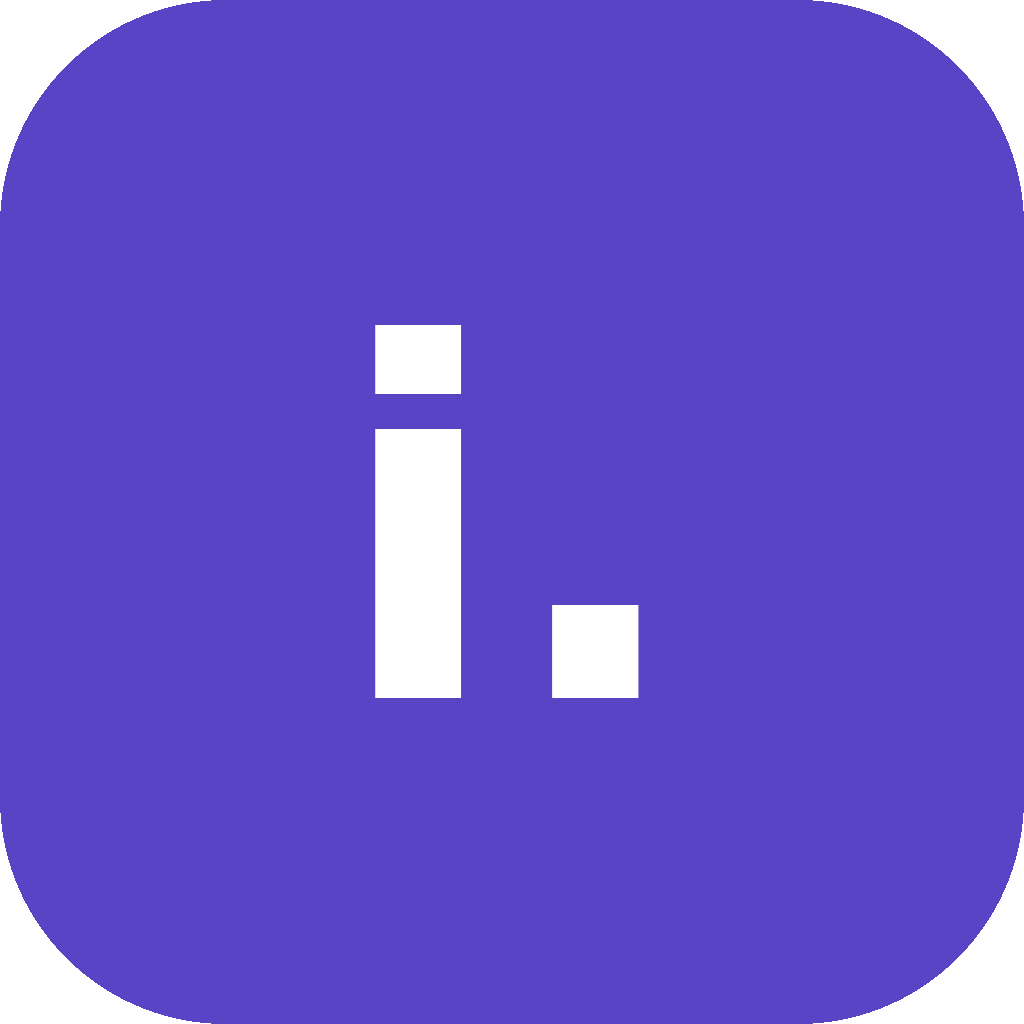
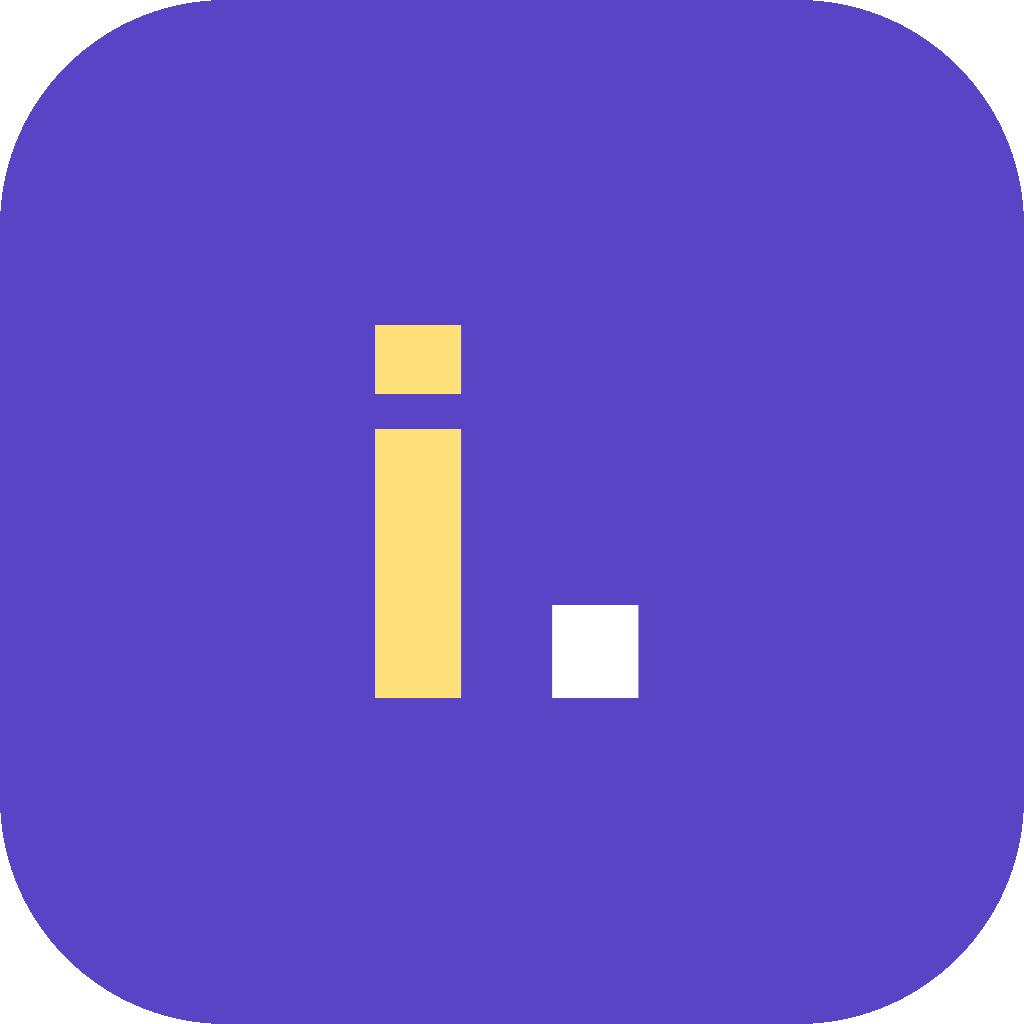
Update InGliSc app branding

Changed region(s): [[0.3438, 0.3125, 0.4688, 0.6875]]

diff --git a/App.js b/App.js
@@ -329,7 +329,19 @@ function AppContent({ onCoffeeThanks }) {
   const back = () => { if (exit) setExit(false); else if (activePage === 'game') setExit(true); else if (page !== 'home') setPage('home'); else return false; return true; };
   useEffect(() => { const sub = BackHandler.addEventListener('hardwareBackPress', back); return () => sub.remove(); });
   return <SafeAreaView style={s.safe}><StatusBar style={darkMode ? 'light' : 'dark'} /><Modal transparent visible={game.serverWaking} animationType="fade" statusBarTranslucent onRequestClose={() => {}}><View style={s.wakeBackdrop}><View accessibilityRole="progressbar" accessibilityLabel="Attendo la connessione al server" style={s.wakeSpinner}><ActivityIndicator size="large" color={C.purple} /></View></View></Modal><KeyboardAvoidingView style={{ flex: 1 }} behavior={Platform.OS === 'ios' ? 'padding' : undefined}><ScrollView keyboardShouldPersistTaps="handled" contentContainerStyle={s.container}>
-    <View style={s.nav}><Pressable accessibilityRole="button" accessibilityLabel={activePage === 'home' ? 'InGliSc home' : 'Indietro'} onPress={back} style={s.brand}><View style={s.brandMark}><Text style={s.brandMarkText}>i.</Text></View>{!compactHeader && <Text style={s.brandText}>InGliSc<Text style={{ color: C.purple }}>!</Text></Text>}</Pressable><View style={[s.navRight, compactHeader && s.navRightCompact]}><View accessibilityLabel={`${game.activeUsers} utenti attivi`} style={[s.activeBadge, compactHeader && s.activeBadgeCompact]}><View style={s.onlineDot} /><Text style={s.activeText}>{game.activeUsers}</Text></View><Pressable accessibilityRole="switch" accessibilityLabel={soundEnabled ? 'Disattiva suoni' : 'Attiva suoni'} accessibilityState={{ checked: soundEnabled }} onPress={() => { const next = !soundEnabled; setSoundEnabled(next); setSoundEffectsEnabled(next); if (next) void playUiSound('tap'); }} style={[s.navButton, compactHeader && s.navButtonCompact]}><MaterialCommunityIcons name={soundEnabled ? 'volume-high' : 'volume-off'} size={21} color={C.purple} /></Pressable><Pressable accessibilityRole="switch" accessibilityLabel={darkMode ? 'Attiva modalità chiara' : 'Attiva modalità scura'} accessibilityState={{ checked: darkMode }} disabled={!themeReady} onPress={() => { const next = !darkMode; C = next ? DARK : LIGHT; s = buildStyles(); setDarkMode(next); AsyncStorage.setItem('inglisc:dark-mode', String(next)).catch(() => {}); void playUiSound('tap'); }} style={[s.navButton, compactHeader && s.navButtonCompact, !themeReady && s.disabled]}><MaterialCommunityIcons name={darkMode ? 'white-balance-sunny' : 'weather-night'} size={21} color={C.purple} /></Pressable>{activePage === 'game' && <Pressable accessibilityRole="button" accessibilityLabel="Memo parole" onPress={() => { void playUiSound('tap'); setPage('memo'); }} style={[s.navButton, compactHeader && s.navButtonCompact]}><MaterialCommunityIcons name="bookmark-outline" size={20} color={C.purple} />{!compactHeader && <Text style={s.navText}>Memo</Text>}</Pressable>}{activePage !== 'home' && <Pressable accessibilityRole="button" accessibilityLabel={activePage === 'game' ? 'Esci dalla lobby' : 'Indietro'} onPress={back} style={[s.navButton, compactHeader && s.navButtonCompact]}><MaterialCommunityIcons name={activePage === 'game' ? 'exit-to-app' : 'arrow-left'} size={20} color={C.purple} />{!compactHeader && <Text style={s.navText}>{activePage === 'game' ? 'Esci' : 'Indietro'}</Text>}</Pressable>}</View></View>
+    <View style={s.nav}>
+      <Pressable accessibilityRole="button" accessibilityLabel={activePage === 'home' ? 'InGliSc home' : 'Indietro'} onPress={back} style={s.brand}>
+        <View style={s.brandMark}><Text style={s.brandMarkText}><Text style={{ color: C.heroAccent }}>i</Text><Text style={{ color: C.white }}>.</Text></Text></View>
+        {!compactHeader && <Text style={s.brandText}>InGliSc<Text style={{ color: C.purple }}>!</Text></Text>}
+      </Pressable>
+      <View style={[s.navRight, compactHeader && s.navRightCompact]}>
+        <View accessibilityLabel={`${game.activeUsers} utenti attivi`} style={[s.activeBadge, compactHeader && s.activeBadgeCompact]}><View style={s.onlineDot} /><Text style={s.activeText}>{game.activeUsers}</Text></View>
+        <Pressable accessibilityRole="switch" accessibilityLabel={soundEnabled ? 'Disattiva suoni' : 'Attiva suoni'} accessibilityState={{ checked: soundEnabled }} onPress={() => { const next = !soundEnabled; setSoundEnabled(next); setSoundEffectsEnabled(next); if (next) void playUiSound('tap'); }} style={[s.navButton, compactHeader && s.navButtonCompact]}><MaterialCommunityIcons name={soundEnabled ? 'volume-high' : 'volume-off'} size={21} color={C.purple} /></Pressable>
+        <Pressable accessibilityRole="switch" accessibilityLabel={darkMode ? 'Attiva modalità chiara' : 'Attiva modalità scura'} accessibilityState={{ checked: darkMode }} disabled={!themeReady} onPress={() => { const next = !darkMode; C = next ? DARK : LIGHT; s = buildStyles(); setDarkMode(next); AsyncStorage.setItem('inglisc:dark-mode', String(next)).catch(() => {}); void playUiSound('tap'); }} style={[s.navButton, compactHeader && s.navButtonCompact, !themeReady && s.disabled]}><MaterialCommunityIcons name={darkMode ? 'white-balance-sunny' : 'weather-night'} size={21} color={C.purple} /></Pressable>
+        {activePage === 'game' && <Pressable accessibilityRole="button" accessibilityLabel="Memo parole" onPress={() => { void playUiSound('tap'); setPage('memo'); }} style={[s.navButton, compactHeader && s.navButtonCompact]}><MaterialCommunityIcons name="bookmark-outline" size={20} color={C.purple} />{!compactHeader && <Text style={s.navText}>Memo</Text>}</Pressable>}
+        {activePage !== 'home' && <Pressable accessibilityRole="button" accessibilityLabel={activePage === 'game' ? 'Esci dalla lobby' : 'Indietro'} onPress={back} style={[s.navButton, compactHeader && s.navButtonCompact]}><MaterialCommunityIcons name={activePage === 'game' ? 'exit-to-app' : 'arrow-left'} size={20} color={C.purple} />{!compactHeader && <Text style={s.navText}>{activePage === 'game' ? 'Esci' : 'Indietro'}</Text>}</Pressable>}
+      </View>
+    </View>
     {!!game.error && <View style={s.error}><Text accessibilityLiveRegion="polite" style={s.errorText}>{game.error}</Text>{game.session && <Pressable accessibilityRole="button" onPress={game.refresh}><Text style={s.errorLink}>Riprova aggiornamento</Text></Pressable>}</View>}
     {exit && game.session && <Card style={{ backgroundColor: C.coral }}><Text style={s.sectionTitle}>Vuoi uscire dalla lobby?</Text><Text style={s.body}>Durante una partita l’uscita interrompe il gioco per tutti e azzera i punteggi. Se la rete non funziona, puoi rimuovere solo la sessione locale, ma il posto rimarrà occupato fino alla scadenza.</Text><Button title="Sì, esci dalla lobby" disabled={game.busy} onPress={async () => { if (await game.action('leave')) { setExit(false); setPage('home'); } }} /><Button kind="secondary" title="Resta qui" onPress={() => setExit(false)} /><Button kind="light" title="Rimuovi solo sessione locale" onPress={() => { game.forget('Sessione locale rimossa. Il posto può rimanere occupato fino alla scadenza.'); setExit(false); setPage('home'); }} /></Card>}
     {!game.ready || !themeReady ? <ActivityIndicator size="large" color={C.purple} /> : <ScreenEntrance key={screenKey}>{activePage === 'home' ? <Home game={game} open={setPage} onCoffeeThanks={onCoffeeThanks} /> : activePage === 'rules' ? <Rules /> : activePage === 'memo' ? <Memo game={game} /> : <Game game={game} />}</ScreenEntrance>}
@@ -356,7 +368,7 @@ function buildStyles() {
   return StyleSheet.create({
     coffeeToast: { position: 'absolute', bottom: 24, left: 16, right: 16, alignSelf: 'center', maxWidth: 480, minHeight: 54, borderRadius: 16, backgroundColor: C.ink, flexDirection: 'row', alignItems: 'center', justifyContent: 'center', gap: 10, paddingHorizontal: 18, paddingVertical: 12, elevation: 10, shadowColor: '#000000', shadowOpacity: .2, shadowOffset: { width: 0, height: 4 }, shadowRadius: 12, zIndex: 100 }, coffeeToastText: { color: C.white, fontSize: 15, fontWeight: '800', textAlign: 'center' },
     safe: { flex: 1, backgroundColor: C.cream }, wakeBackdrop: { flex: 1, backgroundColor: 'rgba(0,0,0,0.12)', alignItems: 'center', justifyContent: 'center' }, wakeSpinner: { width: 68, height: 68, borderRadius: 18, backgroundColor: C.white, borderWidth: 1, borderColor: C.edge, alignItems: 'center', justifyContent: 'center' }, container: { width: '100%', maxWidth: 720, alignSelf: 'center', paddingHorizontal: 20, paddingBottom: 24, gap: 16 },
-    nav: { minHeight: 72, flexDirection: 'row', alignItems: 'center', justifyContent: 'space-between', gap: 8 }, brand: { flexDirection: 'row', alignItems: 'center', gap: 9 }, brandMark: { width: 36, height: 36, borderRadius: 12, backgroundColor: C.primary, alignItems: 'center', justifyContent: 'center' }, brandMarkText: { color: 'white', fontSize: 24, fontWeight: '900' }, brandText: { fontSize: 22, fontWeight: '900', color: C.ink, letterSpacing: -1 }, navRight: { flexDirection: 'row', gap: 4, alignItems: 'center' }, navRightCompact: { gap: 0 }, navButton: { minHeight: 44, minWidth: 44, flexDirection: 'row', alignItems: 'center', justifyContent: 'center', gap: 4, paddingHorizontal: 8 }, navButtonCompact: { minWidth: 40, paddingHorizontal: 4 }, navText: { color: C.purple, fontWeight: '700' }, activeBadge: { height: 32, minWidth: 48, borderRadius: 16, backgroundColor: C.pale, flexDirection: 'row', alignItems: 'center', justifyContent: 'center', gap: 6, paddingHorizontal: 9 }, activeBadgeCompact: { height: 30, minWidth: 42, paddingHorizontal: 7 }, onlineDot: { width: 8, height: 8, borderRadius: 4, backgroundColor: C.success }, activeText: { color: C.ink, fontSize: 13, fontWeight: '900' },
+    nav: { minHeight: 72, flexDirection: 'row', alignItems: 'center', justifyContent: 'space-between', gap: 8 }, brand: { flexDirection: 'row', alignItems: 'center', gap: 9 }, brandMark: { width: 36, height: 36, borderRadius: 12, backgroundColor: C.primary, alignItems: 'center', justifyContent: 'center' }, brandMarkText: { color: C.heroAccent, fontSize: 24, fontWeight: '900' }, brandText: { fontSize: 22, fontWeight: '900', color: C.ink, letterSpacing: -1 }, navRight: { flexDirection: 'row', gap: 4, alignItems: 'center' }, navRightCompact: { gap: 0 }, navButton: { minHeight: 44, minWidth: 44, flexDirection: 'row', alignItems: 'center', justifyContent: 'center', gap: 4, paddingHorizontal: 8 }, navButtonCompact: { minWidth: 40, paddingHorizontal: 4 }, navText: { color: C.purple, fontWeight: '700' }, activeBadge: { height: 32, minWidth: 48, borderRadius: 16, backgroundColor: C.pale, flexDirection: 'row', alignItems: 'center', justifyContent: 'center', gap: 6, paddingHorizontal: 9 }, activeBadgeCompact: { height: 30, minWidth: 42, paddingHorizontal: 7 }, onlineDot: { width: 8, height: 8, borderRadius: 4, backgroundColor: C.success }, activeText: { color: C.ink, fontSize: 13, fontWeight: '900' },
     homeContent: { gap: 16 }, memoPage: { gap: 16 }, hero: { backgroundColor: C.primary, borderRadius: 28, padding: 26, gap: 14 }, heroTop: { flexDirection: 'row', justifyContent: 'space-between', alignItems: 'center' }, heroTag: { color: C.heroTag, fontSize: 11, letterSpacing: 1.8, fontWeight: '900' }, heroSpark: { color: C.heroAccent, fontSize: 30 }, heroTitle: { color: 'white', fontSize: 36, lineHeight: 41, fontWeight: '900', letterSpacing: -1.5 }, heroText: { color: C.heroText, fontSize: 16, lineHeight: 24 }, heroPill: { alignSelf: 'flex-start', backgroundColor: C.yellow, borderRadius: 30, flexDirection: 'row', gap: 7, alignItems: 'center', paddingHorizontal: 12, paddingVertical: 8 }, heroPillText: { color: C.ink, fontSize: 10, fontWeight: '900', letterSpacing: .5 },
     card: { backgroundColor: C.white, borderRadius: 24, padding: 22, gap: 14, borderWidth: 1, borderColor: C.edge }, heading: { gap: 7 }, eyebrow: { color: C.purple, fontSize: 11, fontWeight: '900', letterSpacing: 1.5 }, title: { color: C.ink, fontWeight: '900', fontSize: 27, lineHeight: 33, letterSpacing: -.7 }, subtitle: { color: C.muted, fontSize: 15, lineHeight: 22 }, body: { color: C.muted, fontSize: 15, lineHeight: 22 }, sectionTitle: { color: C.ink, fontSize: 18, fontWeight: '800' },
     button: { minHeight: 50, borderRadius: 14, backgroundColor: C.primary, flexDirection: 'row', alignItems: 'center', justifyContent: 'center', paddingHorizontal: 16, paddingVertical: 10, gap: 8 }, buttonSecondary: { backgroundColor: C.pale }, buttonLight: { backgroundColor: 'transparent' }, buttonText: { color: 'white', fontWeight: '800', textAlign: 'center', fontSize: 15 }, buttonAlt: { color: C.purple }, disabled: { opacity: .43 }, pressed: { opacity: .75 },
